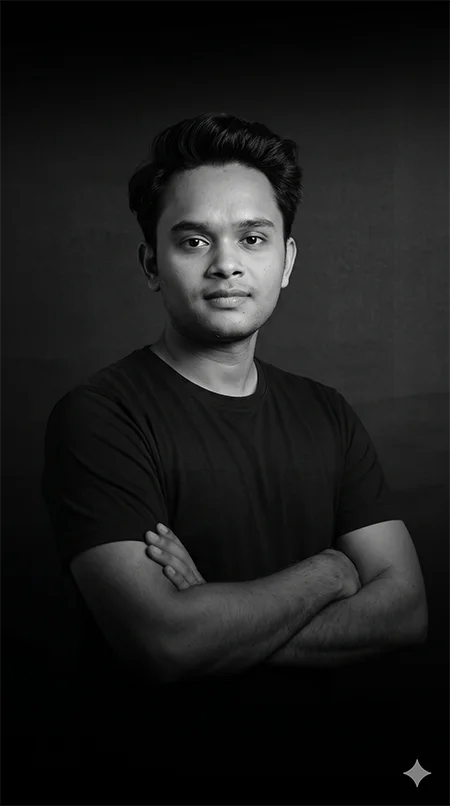
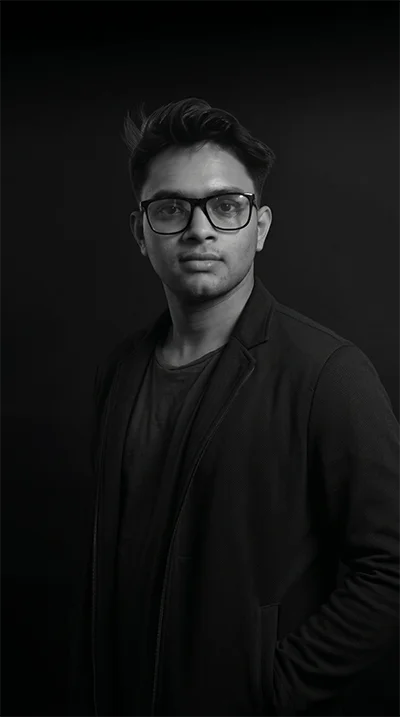
q3wdqw4aaaaaaaaaaaaaaaaaa

diff --git a/src/components/Categories.tsx b/src/components/Categories.tsx
@@ -15,7 +15,7 @@ interface Category {
   title: string;
   subtitle: string;
   description: string;
-
+  img: string;
   href: string;
   cta: string;
 }
@@ -24,13 +24,14 @@ const categories: Category[] = [
   {
     number: "01",
 
-    title: "QuadBreak Studio",
+    title: "QuadBreak Studios",
     subtitle: "Game Art & Production",
+    img: "/images/logo.png",
+
     description:
-      "QuadBreak Studio brings game worlds to life through high-quality 3D assets, environments, characters, animation, VFX and cinematic content. QuadBreak Studio brings game worlds to life through high-quality 3D assets, environments, characters, animation, VFX and cinematic content.",
+      "Quadbreak Studios is a 3D game art production and outsourcing studio that partners with game developers to create high-quality, production-ready 3D content. Our expertise spans environments, props, vehicles, hard-surface assets, and complete game-ready scenes.",
 
-
-    href: "/services",
+    href: "/portfolio",
     cta: "Explore Studio",
   },
   {
@@ -38,11 +39,11 @@ const categories: Category[] = [
 
     title: "QuadBreak Simulations",
     subtitle: "VR • Training • Simulation",
+    img: "/images/quadbreak_simulations.png",
     description:
-      "QuadBreak Simulations creates immersive digital environments, training experiences and interactive visual solutions for VR, simulation and specialized applications. QuadBreak Studio brings game worlds to life through high-quality 3D assets, environments, characters, animation, VFX and cinematic content.",
+      "Quadbreak Simulations is a dedicated 3D art team built exclusively for the simulation industry. We are partnering with simulation companies around the world, adding production capacity and delivering real-time 3D content that fits their pipelines and performance targets.",
 
-
-    href: "/services",
+    href: "https://quadbreaksimulations.com/",
     cta: "Explore Simulations",
   },
   {
@@ -50,11 +51,12 @@ const categories: Category[] = [
 
     title: "QuadBreak Academy",
     subtitle: "Learn • Create • Build",
+    img: "/images/quadbreak_academy.png",
+
     description:
       "Quadbreak runs training programs for young people from Kerala who want to build careers in 3D art and game development. Students learn the same pipeline and quality standards used on real Disney and simulation projects — and the best of them join the studio team. We're not just hiring artists. We're making them.",
-  
 
-    href: "/services",
+    href: "/",
     cta: "Explore Academy",
   },
 ];
@@ -195,7 +197,7 @@ export default function Categories() {
           {/* <p className="cat2-eyebrow mb-4 text-xs uppercase tracking-[0.32em] text-[var(--green)]">
            What We Do
           </p> */}
-          <h2 className="text-3xl font-light uppercase leading-[1.02] tracking-tight text-white md:text-5xl lg:text-[3.4rem]">
+          <h2 className="text-3xl font-light uppercase leading-[1.02] tracking-tight text-white md:text-5xl lg:text-[5rem]">
             Three Worlds
             <br />
             <span className="text-[var(--green)]">One Creative Vision</span>
@@ -211,16 +213,17 @@ export default function Categories() {
             return (
               <article
                 key={cat.number}
-                className={` group relative grid grid-cols-1  gap-7  xl:gap-15 pb-12`}
+                className={` group relative grid grid-cols-1  gap-7   pb-12`}
               >
-             
                 <div className="lg:col-span-3">
                   <div className="mb-2 flex items-start justify-between">
                     <div>
                       <h3 className="cat4-card-title text-2xl  uppercase   text-white md:text-3xl">
                         {cat.title}
                       </h3>
-                      <span className={`text-xs uppercase tracking-[0.2em] mt-2 font-[200] block`}>
+                      <span
+                        className={`text-xs uppercase tracking-[0.2em] mt-2 font-[200] block`}
+                      >
                         {cat.subtitle}
                       </span>
 
@@ -228,8 +231,14 @@ export default function Categories() {
                       <p className="mt-4  font-light text-[14px] xl:text-lg  xl:max-w-[80%]">
                         {cat.description}
                       </p>
+                      <Image
+                        src={cat.img}
+                        alt={cat.title}
+                        width={250}
+                        height={100}
+                        className="mt-6 w-full max-w-[250px] object-cover"
+                      />
                     </div>
-
                     <Link
                       href={cat.href}
                       aria-label={`Go to ${cat.title}`}
@@ -241,8 +250,9 @@ export default function Categories() {
                       />
                     </Link>
                   </div>
-                  {/* Title */}
+                </div>
 
+                <div>
                   <div className="cat-cta pt-2">
                     <AnimatedButton
                       label={cat.cta}

diff --git a/src/components/Header.tsx b/src/components/Header.tsx
@@ -37,7 +37,7 @@ export default function Header() {
                     <nav className="hidden lg:flex items-center justify-end gap-6" aria-label="Primary navigation">
                         <Link href="/" className="nav-link uppercase  font-light tracking-wider hover:text-[var(--green)] relative hover:top-[-4px] top-0 transition-all duration-300 ease-in-out">Home</Link>
                         <span className="h-5 w-[.05rem] bg-white/30"></span>
-                        <Link href="/about" className="nav-link uppercase  font-light tracking-wider hover:text-[var(--green)] relative hover:top-[-4px] top-0 transition-all duration-300 ease-in-out">About Us</Link>
+                        <Link href="/studio" className="nav-link uppercase  font-light tracking-wider hover:text-[var(--green)] relative hover:top-[-4px] top-0 transition-all duration-300 ease-in-out">Studio</Link>
                         {/* <Link href="/culture" className="nav-link uppercase text-sm font-light tracking-wider hover:text-[var(--green)] relative hover:top-[-4px] top-0 transition-all duration-300 ease-in-out">Culture</Link> */}
                         <span className="h-5 w-[.05rem] bg-white/30"></span>
                 
@@ -111,7 +111,7 @@ export default function Header() {
                 <nav aria-label="Mobile navigation" className={` min-h-screen flex flex-col justify-center duration-700 relative ${menuOpen ? "opacity-100 " : "opacity-0  scale-50"
                     }`}>
                     <Link href="/" className="block py-2 px-6 nav-link uppercase text-center text-[7vh]" tabIndex={menuOpen ? 0 : -1} onClick={handleLinkClick}>Home</Link>
-                    <Link href="/about" className="block  py-2 px-6 nav-link uppercase text-center text-[6vh]" tabIndex={menuOpen ? 0 : -1} onClick={handleLinkClick}>About Us</Link>
+                    <Link href="/studio" className="block  py-2 px-6 nav-link uppercase text-center text-[6vh]" tabIndex={menuOpen ? 0 : -1} onClick={handleLinkClick}>Studio</Link>
                     {/* <Link href="/culture" className="block  py-2 px-6 nav-link uppercase text-center text-[6vh]" tabIndex={menuOpen ? 0 : -1} onClick={handleLinkClick}>Culture</Link> */}
                     {/* <Link href="https://quadbreaksimulations.com/" target="_blank" className="block  py-2 px-6 nav-link uppercase text-center text-[6vh]" tabIndex={menuOpen ? 0 : -1} onClick={handleLinkClick}>Simulator Art</Link> */}
 

diff --git a/src/components/Footer.tsx b/src/components/Footer.tsx
@@ -173,10 +173,10 @@ export default function Footer() {
               </Link>
 
               <Link
-                href="/about"
+                href="/studio"
                 className="font-light text-md hover:text-[var(--green)] relative top-0 hover:top-[-2px] transition-all border-b w-full block border-white/10 pb-3 flex justify-between"
               >
-                About Us
+                Studio
                 <svg
                   xmlns="http://www.w3.org/2000/svg"
                   viewBox="0 0 24 24"
@@ -282,7 +282,7 @@ export default function Footer() {
                   Quadbreak Studios Pvt Ltd
                   <br />
                   <span className="opacity-80 font-[200]">
-                    2nd Floor, City Center, Iritty, Kannur, Kerala - 670703
+                  Iritty, Kannur, Kerala
                   </span>
                 </span>
               </li>
@@ -305,6 +305,15 @@ export default function Footer() {
                   />
                 </span>
                 <span className="text-md">business@quadbreak.com</span>
+              </a>
+              <a href="mailto:contact@quadbreak.com" className="font-light flex items-center gap-3">
+                <span className="flex items-center justify-center bg-[var(--green)] flex-none w-8 h-8 rounded">
+                  <Mail
+                    className="p-[1px]  text-[var(--background)] flex-none"
+                    strokeWidth={1.5}
+                  />
+                </span>
+                <span className="text-md">contact@quadbreak.com</span>
               </a>
             </ul>
           </div>

diff --git a/src/app/contact/page.tsx b/src/app/contact/page.tsx
@@ -155,6 +155,12 @@ function TopContactSection() {
               >
                 business@quadbreak.com
               </a>
+              <a
+                href="mailto:contact@quadbreak.com"
+                className="transition-colors hover:text-[var(--green)]"
+              >
+                contact@quadbreak.com
+              </a>
               {/* <a
                 href="tel:+919400769978"
                 className="transition-colors hover:text-[var(--green)]"
@@ -162,7 +168,7 @@ function TopContactSection() {
                 +91 94007 69978
               </a> */}
               <span>
-                2nd Floor, City Center, Iritty, Kannur, Kerala 670703, India
+               Iritty, Kannur, Kerala
               </span>
             </address>
       </div>

diff --git a/src/components/Services2.tsx b/src/components/Services2.tsx
@@ -135,7 +135,7 @@ const Services = () => {
 
             <p ref={text1Ref} className="font-[200] lg:text-right text-white text-[14px] lg:text-[18px] leading-snug">At Quadbreak Studios, we bring game worlds to life with high-quality 3D art, environments, and assets tailored for AAA, indie, and mobile games. At Quadbreak Studios, we bring game worlds to life with high-quality 3D art.</p>
             <div ref={btnRef} className="w-fit lg:ml-auto">
-              <AnimatedButton href="/about" label="View All Services" className="mt-5 w-fit min-w-[160px]" />
+              <AnimatedButton href="/studio" label="View All Services" className="mt-5 w-fit min-w-[160px]" />
             </div>
 
           </div>

diff --git a/src/components/TeamSection.tsx b/src/components/TeamSection.tsx
@@ -21,7 +21,7 @@ const staticTeam: TeamMember[] = [
   {
     id: 2,
     name: "Titto",
-    role: "Business Development Manger",
+    role: "Business Development Manager",
     photoUrl: "/images/member2.webp",
   },
   {
@@ -39,7 +39,7 @@ const staticTeam: TeamMember[] = [
   {
     id: 5,
     name: "Benitto Babu",
-    role: "Talant Acquisition Manager",
+    role: "Talent Acquisition Manager",
     photoUrl: "/images/member5.webp",
   },
    {

diff --git a/src/components/CTASection.tsx b/src/components/CTASection.tsx
@@ -301,7 +301,7 @@ const CTASection = () => {
 
           <div className="absolute hidden lg:flex  left-1/2 top-1/2 -translate-x-1/2 -translate-y-1/2 w-[1px] h-[80%] bg-gradient-to-b from-[var(--green)]/10 via-[var(--green)] to-[var(--green)]/10 opacity-70"></div>
           <Link
-            href="/about#meet-the-team"
+            href="/studio#meet-the-team"
             className="
     absolute
     left-1/2

diff --git a/src/app/studio/layout.tsx b/src/app/studio/layout.tsx
@@ -5,7 +5,7 @@ export const metadata: Metadata = buildMetadata({
   title: "About Quadbreak Studios – 3D Art Production Team",
   description:
     "Meet the team behind Quadbreak Studios, a AAA game art outsourcing studio producing game-ready vehicles, weapons, props and environment art since 2016.",
-  path: "/about",
+  path: "/studio",
   keywords: [
     "3D game art studio",
     "AAA game art production",

diff --git a/src/components/WhoWeAre.tsx b/src/components/WhoWeAre.tsx
@@ -523,7 +523,7 @@ const WhoWeAre = () => {
                     {/*
                     <div ref={btnRef}>
                       <AnimatedButton
-                        href="/about"
+                        href="/studio"
                         label="Learn More"
                         className="mt-10 w-fit min-w-[160px]"
                       />

diff --git a/src/components/Services.tsx b/src/components/Services.tsx
@@ -182,7 +182,7 @@ const Services = ({ services }: ServicesProps) => {
         </div>
         {/* <div ref={btnRef} className="w-fit mx-auto mt-10 md:mt-12">
           <AnimatedButton
-            href="/about"
+            href="/studio"
             label="View All Services"
             className="mt-5 w-fit min-w-[160px]"
           />

diff --git a/src/components/CTASection-old.tsx b/src/components/CTASection-old.tsx
@@ -127,7 +127,7 @@ const CTASection = () => {
 
             <div className="mt-8">
               <AnimatedButton
-                href="/about#meet-the-team"
+                href="/studio#meet-the-team"
                 label="Meet the Team"
                 className="w-fit"
               />

diff --git a/src/app/sitemap.ts b/src/app/sitemap.ts
@@ -16,7 +16,7 @@ export default async function sitemap(): Promise<MetadataRoute.Sitemap> {
       priority: 1,
     },
     {
-      url: absoluteUrl("/about"),
+      url: absoluteUrl("/studio"),
       lastModified,
       changeFrequency: "monthly",
       priority: 0.8,
